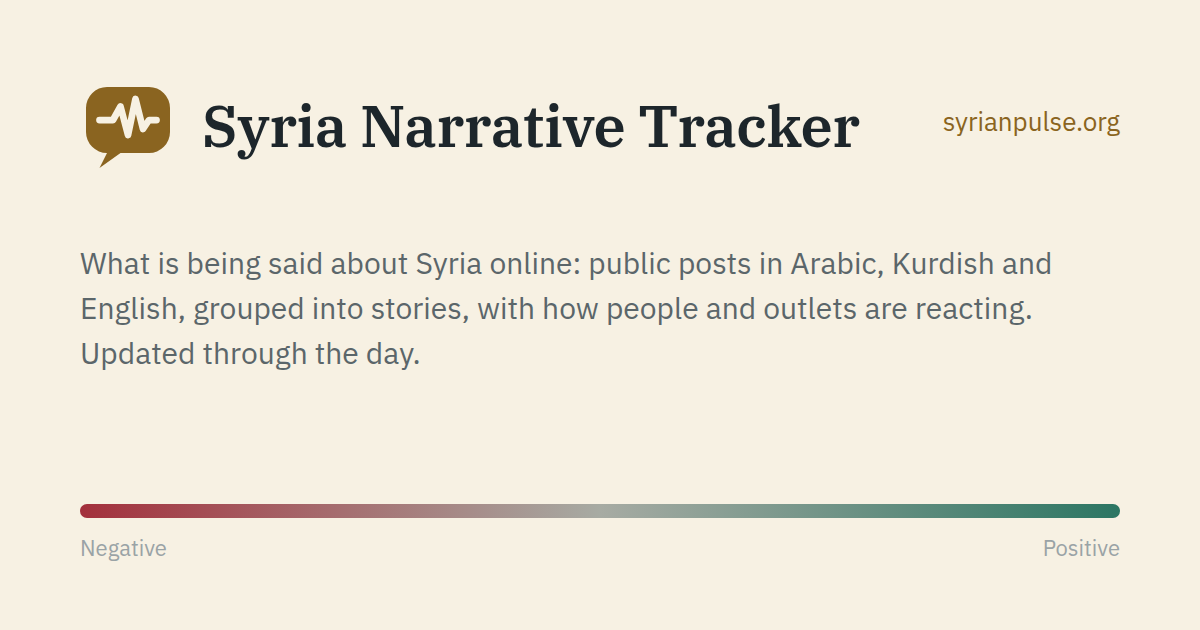
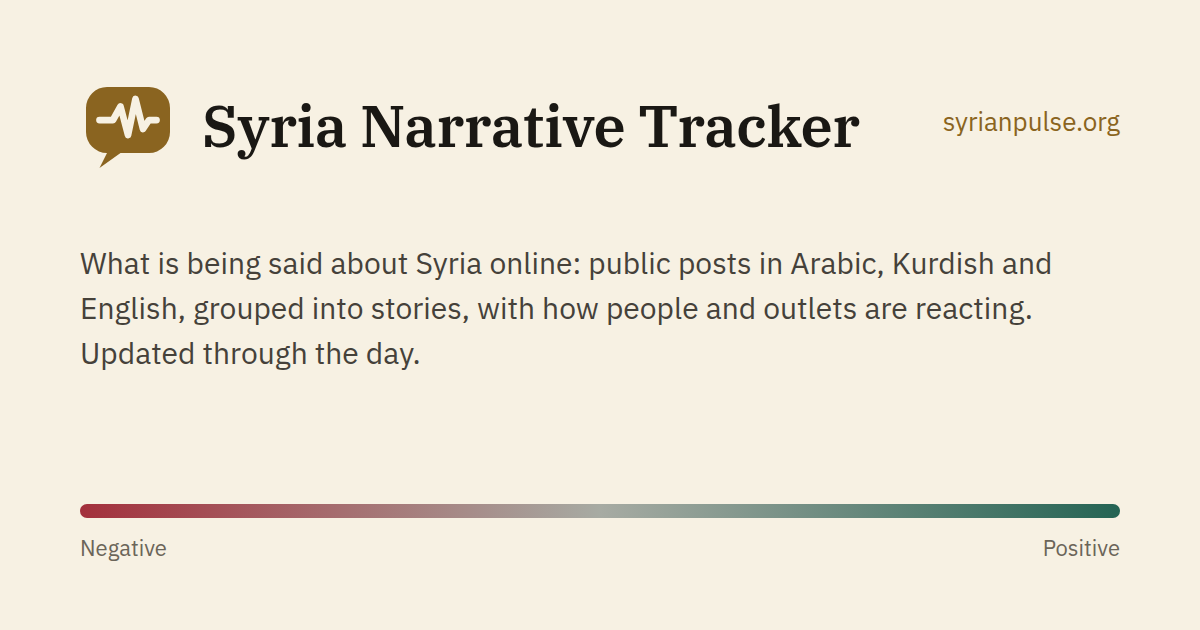
Darker, warmer text on the cream background
Ink #1A1814 (15.7:1), secondary text #45413A (9:1), labels and axes #6B6559 (5.1:1, was 2.3:1), positive tone
#256454; in the site, the generated pages and PDFs, the newsletter HTML and the preview cards.

Claude-Session: https://claude.ai/code/session_01KG6v8aEqyPT67AYWJzYKqu

diff --git a/index.html b/index.html
@@ -36,14 +36,14 @@
 <style>
   :root {
     --paper: #F7F1E3;
-    --ink: #1D262B;
-    --muted: #5B666A;
-    --faint: #9AA3A6;
+    --ink: #1A1814;
+    --muted: #45413A;
+    --faint: #6B6559;
     --rule: #E2D9C5;
     --wash: #EEE6D3;
     --neg: #A3303C;
     --neu: #A7ABA3;
-    --pos: #2C7663;
+    --pos: #256454;
     --brass: #8A6420;
     --sans: "IBM Plex Sans", "IBM Plex Sans Arabic", system-ui, sans-serif;
     --display: "IBM Plex Serif", "Noto Naskh Arabic", Georgia, serif;

diff --git a/scripts/pages.py b/scripts/pages.py
@@ -101,7 +101,7 @@ W = {   # the words on the static pages
 }
 
 CSS = """
-:root{--paper:#F7F1E3;--ink:#1D262B;--muted:#5B666A;--faint:#9AA3A6;--rule:#E2D9C5;--wash:#EEE6D3;--neg:#A3303C;--neu:#A7ABA3;--pos:#2C7663;--brass:#8A6420;
+:root{--paper:#F7F1E3;--ink:#1A1814;--muted:#45413A;--faint:#6B6559;--rule:#E2D9C5;--wash:#EEE6D3;--neg:#A3303C;--neu:#A7ABA3;--pos:#256454;--brass:#8A6420;
 --sans:"IBM Plex Sans","IBM Plex Sans Arabic",system-ui,sans-serif;--display:"IBM Plex Serif","Noto Naskh Arabic",Georgia,serif}
 :root{color-scheme:light}
 html[lang=ar]{--sans:"IBM Plex Sans Arabic","IBM Plex Sans",system-ui,sans-serif;--display:"Noto Naskh Arabic","IBM Plex Sans Arabic",serif}
@@ -728,9 +728,9 @@ def monthly_email_html(cfg: dict, d: dict, lang: str) -> str:
     body = re.sub(r'<td><div class="bar">.*?</div></td>', "", body).replace("<th></th>", "")   # the bar column needs CSS; email clients have none
     body = body.replace("<table>", '<table cellpadding="6" style="border-collapse:collapse;font-size:14px">').replace("<th>", '<th align="left">')
     return (f'<div dir="{"rtl" if lang == "ar" else "ltr"}" lang="{lang}" style="font-family:system-ui,sans-serif;line-height:1.6">'
-            f'<p style="color:#5B666A;font-size:14px"><img src="{esc(base + "/assets/logo-144.png")}" width="24" height="24" alt="" style="vertical-align:middle;border-radius:5px;margin-{"left" if lang == "ar" else "right"}:8px">{esc(site_title(cfg, lang))} · {esc(fmt_month(d["month"], lang))} · <a href="{esc(link)}">{w["readOnline"]}</a></p>'
+            f'<p style="color:#45413A;font-size:14px"><img src="{esc(base + "/assets/logo-144.png")}" width="24" height="24" alt="" style="vertical-align:middle;border-radius:5px;margin-{"left" if lang == "ar" else "right"}:8px">{esc(site_title(cfg, lang))} · {esc(fmt_month(d["month"], lang))} · <a href="{esc(link)}">{w["readOnline"]}</a></p>'
             f'<h1 style="font-size:24px;line-height:1.3">{esc(t(d, "title", lang))}</h1>{body}'
-            f'<p style="color:#5B666A;font-size:13px"><a href="{esc(base)}/">{esc(site_title(cfg, lang))}</a> · {esc(w["footer"])}</p></div>')
+            f'<p style="color:#45413A;font-size:13px"><a href="{esc(base)}/">{esc(site_title(cfg, lang))}</a> · {esc(w["footer"])}</p></div>')
 
 
 def write_monthly_pages(cfg: dict, review: dict) -> None:

diff --git a/scripts/brand.py b/scripts/brand.py
@@ -41,8 +41,8 @@ import report_pdf  # noqa: E402  (finds Chrome)
 ROOT = pathlib.Path(__file__).resolve().parent.parent
 ASSETS = ROOT / "assets"
 
-BRASS, PAPER, INK, MUTED, FAINT = "#8A6420", "#F7F1E3", "#1D262B", "#5B666A", "#9AA3A6"
-NEG, NEU, POS = "#A3303C", "#A7ABA3", "#2C7663"
+BRASS, PAPER, INK, MUTED, FAINT = "#8A6420", "#F7F1E3", "#1A1814", "#45413A", "#6B6559"
+NEG, NEU, POS = "#A3303C", "#A7ABA3", "#256454"
 
 # the mark, on a 64 x 64 square: a rounded speech bubble (tail at the lower left) and a pulse line through it
 BUBBLE = "M18 6H46A14 14 0 0 1 60 20V36A14 14 0 0 1 46 50H27L13 60L18 50A14 14 0 0 1 4 36V20A14 14 0 0 1 18 6Z"
